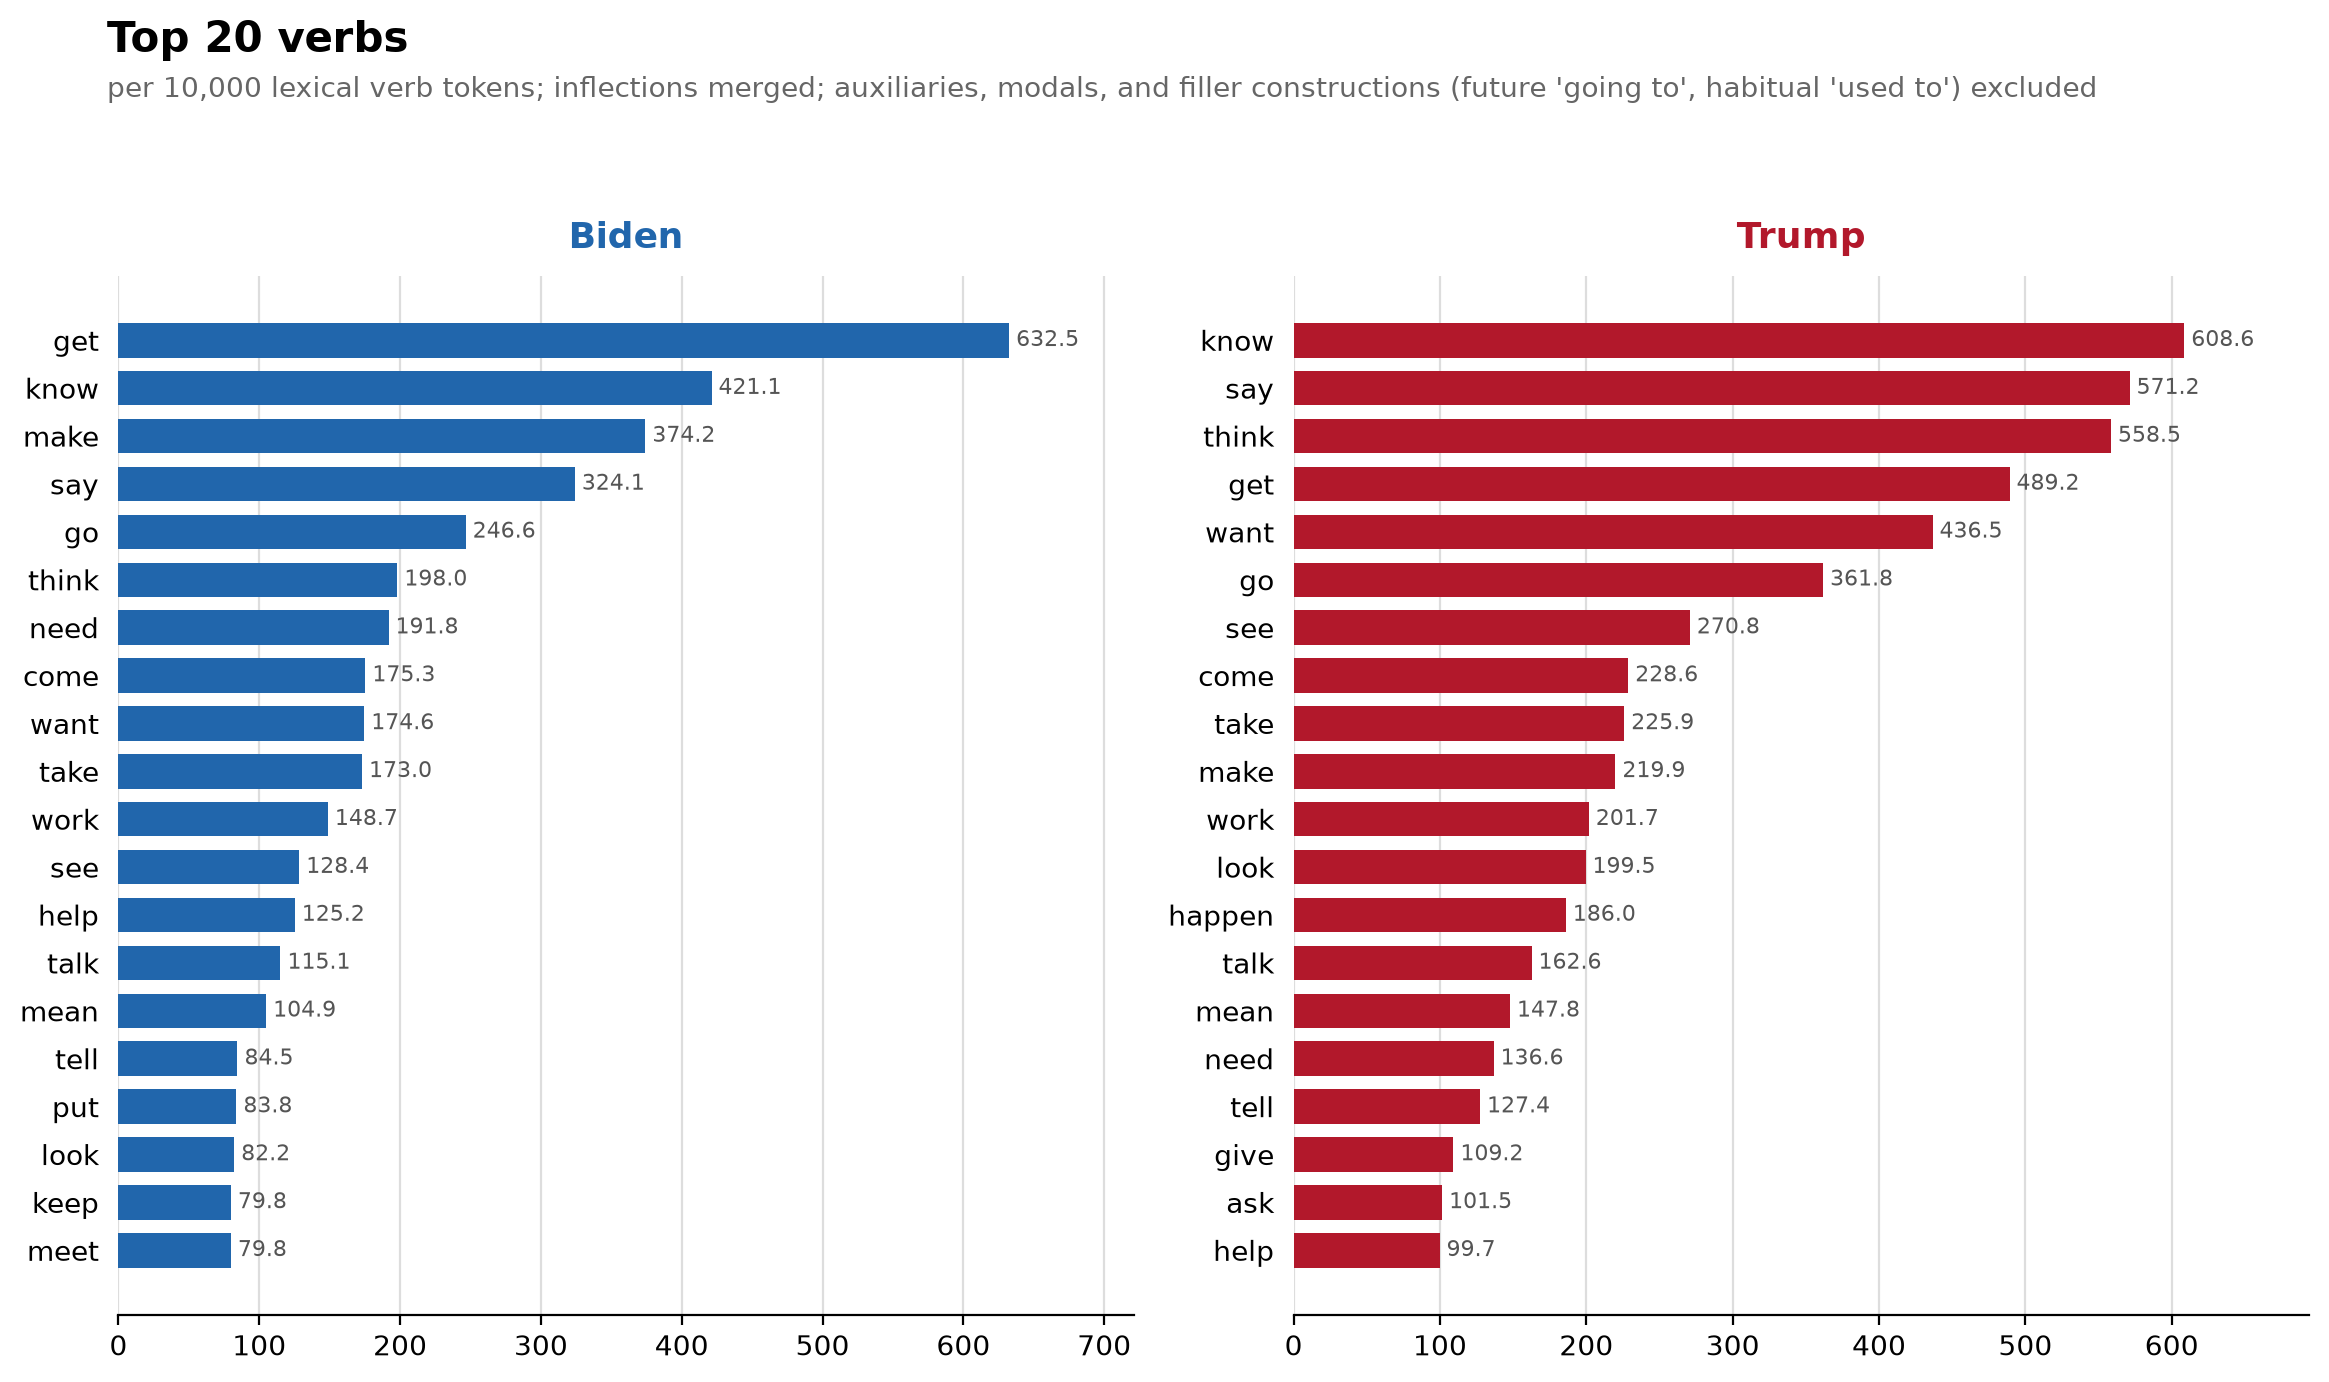
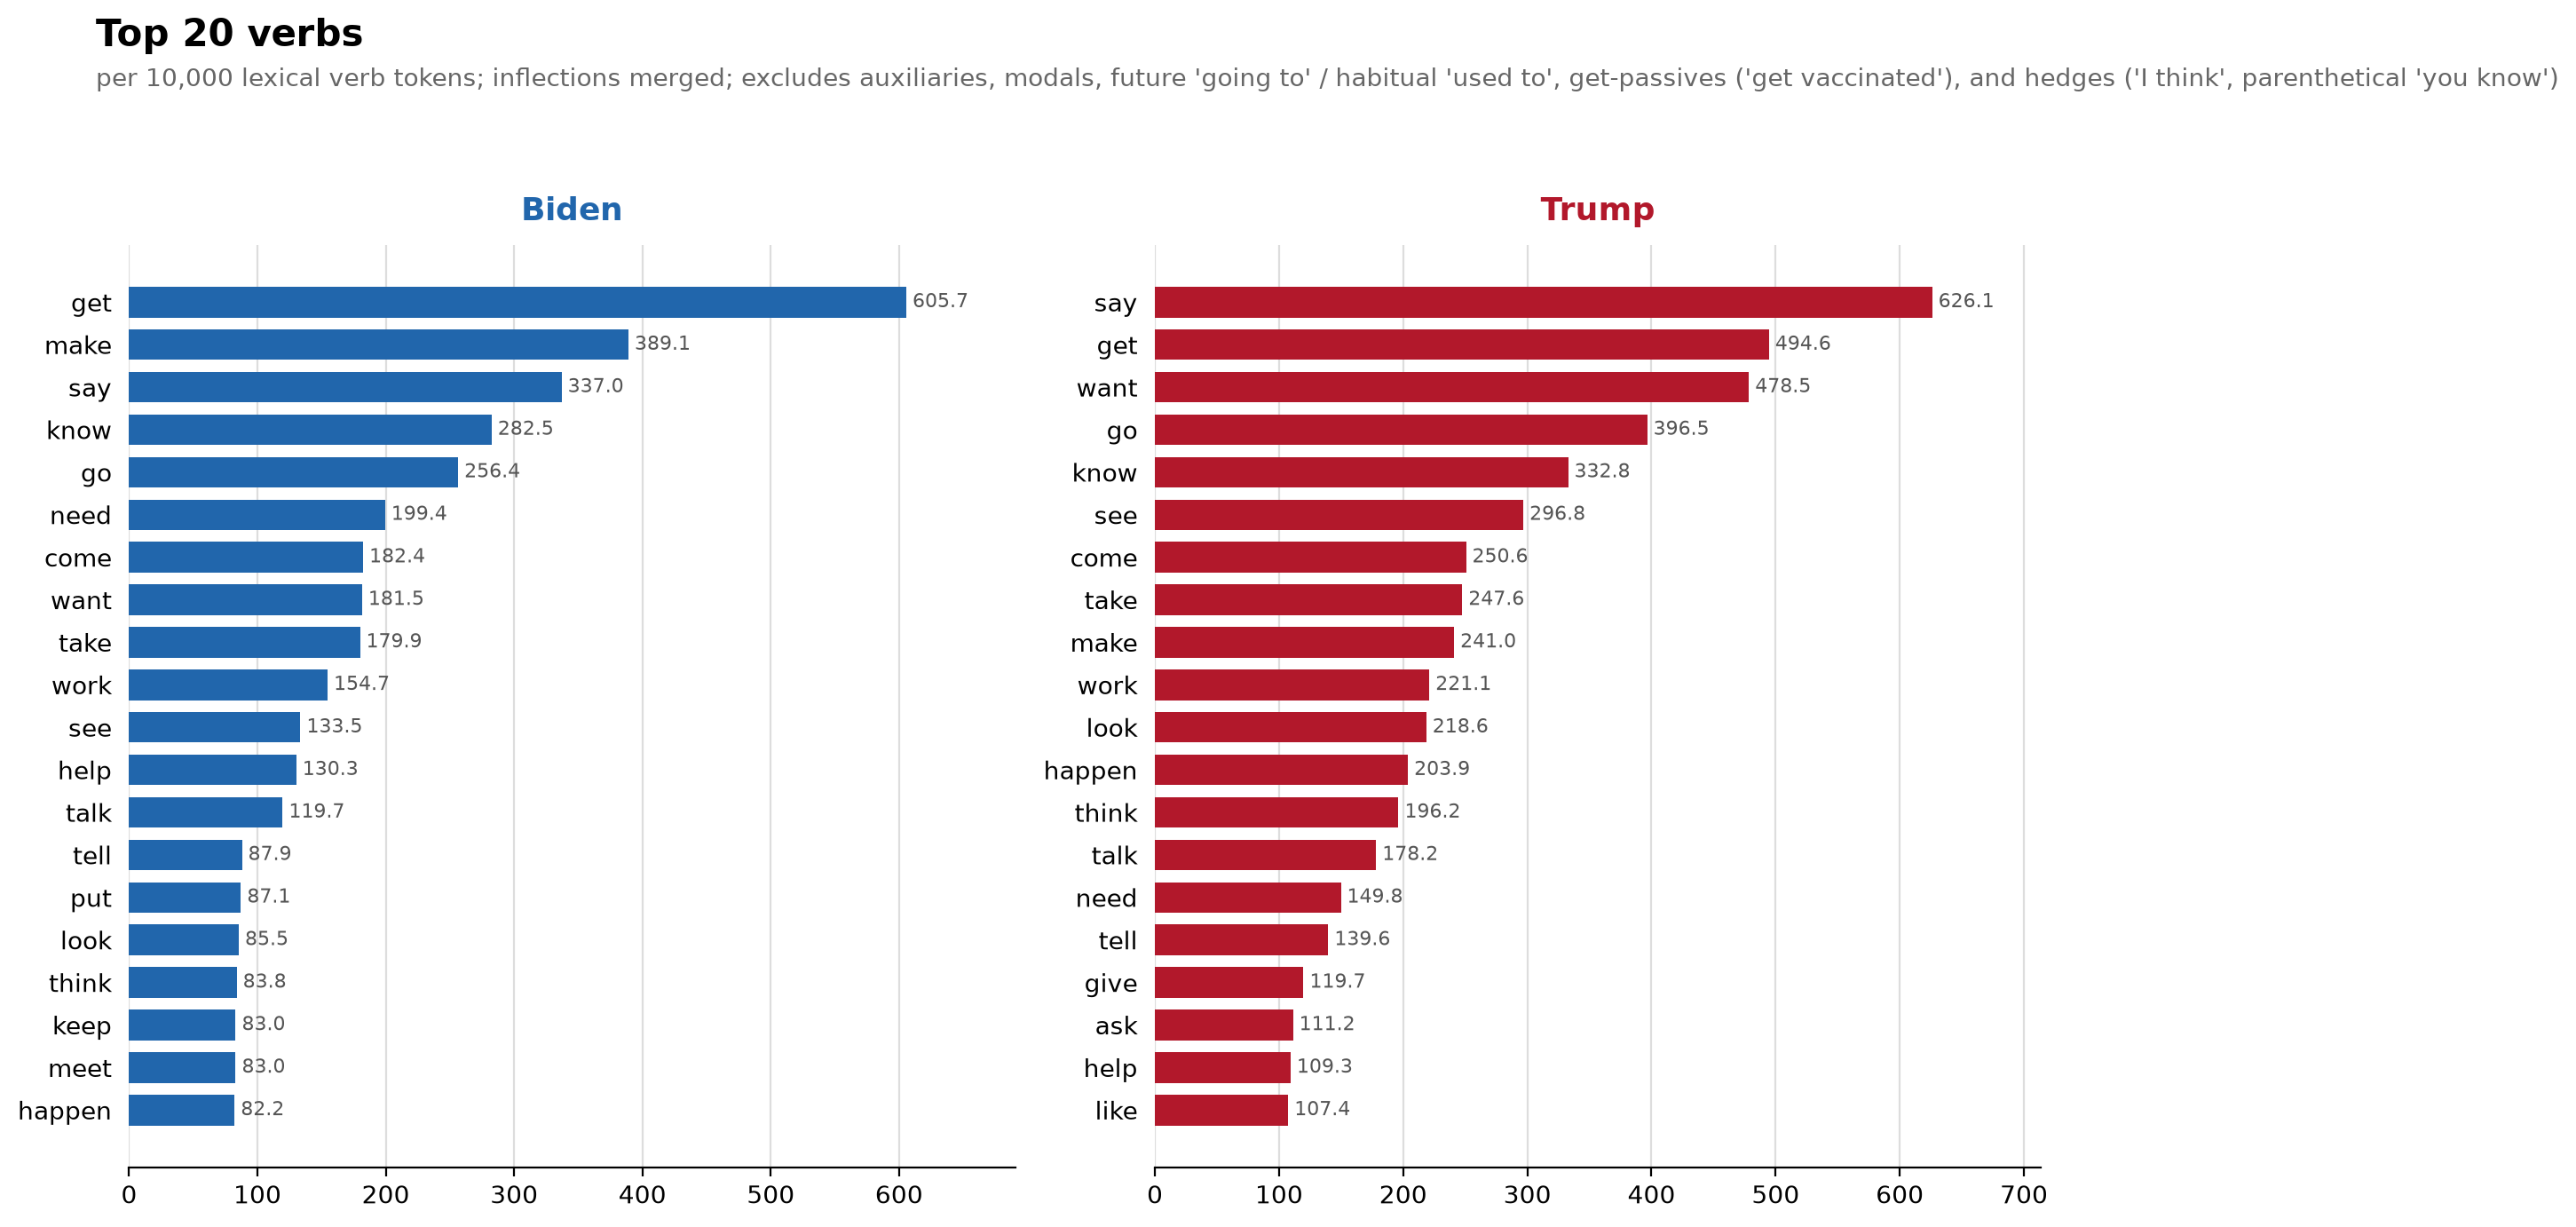
Filter get-passives and hedges from the verbs chart
Skips "get + past participle", first-person stance hedges (I think/
believe/guess/suppose/mean), and parenthetical "you know," — removing
8.4% of Trump verb tokens vs 3.3% of Biden verb tokens.

diff --git a/make_visuals.py b/make_visuals.py
@@ -162,34 +162,56 @@ def standardized_ttr(tokens):
 FILLER_VERBS = {
     "be", "have", "do", "thank", "let", "please", "bless",
     "'s", "'re", "'ve", "'m", "'d", "ca", "wo", "sha", "na", "ta",
-    "gon", "wan", "got",  # "gotta"/"gonna"/"wanna" fragments
+    "gon", "wan",
 }
+
+# first-person stance hedges: "I think we should..." asserts "we should..."
+HEDGE_AFTER_I = {"think", "believe", "guess", "suppose", "mean"}
+
+PUNCT_TOKENS = {",", ".", "—", "–", "-", ";", ":", "?", "!"}
 
 
 def verb_frequencies(sentence_list):
     """Lemma counts of lexical verbs, POS-tagged in sentence context.
 
-    Context matters: future "going to <verb>" and habitual "used to" are
-    syntactic filler and are skipped, while genuine "going" (motion) and
-    "use" (instrumental) are kept.
+    Context separates a verb's contentful uses from its filler uses, so
+    exclusions look at the neighboring tokens:
+      * future "going to <verb>" / habitual "used to"  (genuine motion
+        "going" and instrumental "use" are kept)
+      * get-passives: "get/got vaccinated" = get + past participle
+      * hedges: first-person "I think/believe/guess/suppose/mean", and
+        parenthetical "you know," (followed by punctuation; "you know the
+        numbers" is kept)
     """
     from nltk.stem import WordNetLemmatizer
     wnl = WordNetLemmatizer()
     tagged_sents = nltk.pos_tag_sents(
         nltk.word_tokenize(s) for s in sentence_list)
-    counts = Counter()
+    counts, skipped = Counter(), Counter()
     for sent in tagged_sents:
         for i, (word, tag) in enumerate(sent):
             if not tag.startswith("VB") or not word.isalpha():
                 continue
             word = word.lower()
-            nxt = sent[i + 1][0].lower() if i + 1 < len(sent) else ""
-            if word in ("going", "used") and nxt == "to":
+            prev = sent[i - 1][0].lower() if i else ""
+            nxt, nxt_tag = sent[i + 1] if i + 1 < len(sent) else ("", "")
+            if word in ("going", "used") and nxt.lower() == "to":
+                skipped["going to / used to"] += 1
                 continue
             lemma = wnl.lemmatize(word, "v")
+            if lemma == "get" and nxt_tag == "VBN":
+                skipped["get-passive"] += 1
+                continue
+            if lemma in HEDGE_AFTER_I and prev == "i":
+                skipped["hedge"] += 1
+                continue
+            if (lemma == "know" and prev == "you"
+                    and (nxt in PUNCT_TOKENS or not nxt)):
+                skipped["hedge"] += 1
+                continue
             if lemma not in FILLER_VERBS:
                 counts[lemma] += 1
-    return counts
+    return counts, skipped
 
 
 def log_likelihood(freqs_a, freqs_b, total_a, total_b, min_count=10):
@@ -455,18 +477,22 @@ def main():
         "extended stoplist", "top20_lemmas.png")
 
     # most frequent lexical verbs (POS-tagged in sentence context)
-    verbs = {pres: verb_frequencies(sentences[pres]) for pres in PRESIDENTS}
-    for pres, v in verbs.items():
-        print(f"{PRESIDENTS[pres]['label']}: {sum(v.values()):,} lexical "
-              f"verb tokens, {len(v):,} verb lemmas")
+    verbs = {}
+    for pres in PRESIDENTS:
+        verbs[pres], skipped = verb_frequencies(sentences[pres])
+        skips = ", ".join(f"{k}: {n:,}" for k, n in skipped.most_common())
+        print(f"{PRESIDENTS[pres]['label']}: {sum(verbs[pres].values()):,} "
+              f"lexical verb tokens, {len(verbs[pres]):,} verb lemmas "
+              f"(skipped {skips})")
     paired_barh(
         {pres: sorted(per_10k(v, sum(v.values())).items(),
                       key=lambda x: -x[1])[:20]
          for pres, v in verbs.items()},
         "Top 20 verbs",
-        "per 10,000 lexical verb tokens; inflections merged; auxiliaries, "
-        "modals, and filler constructions (future 'going to', habitual "
-        "'used to') excluded", "top20_verbs.png")
+        "per 10,000 lexical verb tokens; inflections merged; excludes "
+        "auxiliaries, modals, future 'going to' / habitual 'used to', "
+        "get-passives ('get vaccinated'), and hedges ('I think', "
+        "parenthetical 'you know')", "top20_verbs.png")
 
     # sentiment runs on the same filtered sentences, before stopword removal
     sentiment_chart(sentences)

diff --git a/README.md b/README.md
@@ -54,10 +54,14 @@ fairly despite the ~3x size difference (the originals plotted raw counts).
   one item), with each family labeled by its most frequent surface form.
   Uses the extended stoplist.
 - **top20_verbs** — most frequent lexical verbs, POS-tagged in sentence
-  context, inflections merged. Auxiliaries, modals, politeness formulae, and
-  bleached constructions (future "going to", habitual "used to") are
-  excluded; tagging in context is what keeps genuine "going" (motion) and
-  "use" (instrumental) while dropping their filler uses.
+  context, inflections merged. Excluded as filler: auxiliaries, modals,
+  politeness formulae, future "going to" / habitual "used to", get-passives
+  ("get vaccinated"), and hedges (first-person "I think/believe/guess/
+  suppose/mean", parenthetical "you know,"). Tagging in context is what
+  separates filler uses from genuine ones — motion "going", instrumental
+  "use", and contentful "you know the numbers" are all kept. Hedging is
+  itself a finding: the filter removes 8.4% of Trump's verb tokens but only
+  3.3% of Biden's.
 - **lexical_diversity** — standardized TTR over 1,000-token windows, replacing
   raw TTR (which shrinks as a corpus grows and can't compare corpus sizes)
 - **sentiment** — per-sentence VADER polarity: share of positive / neutral /